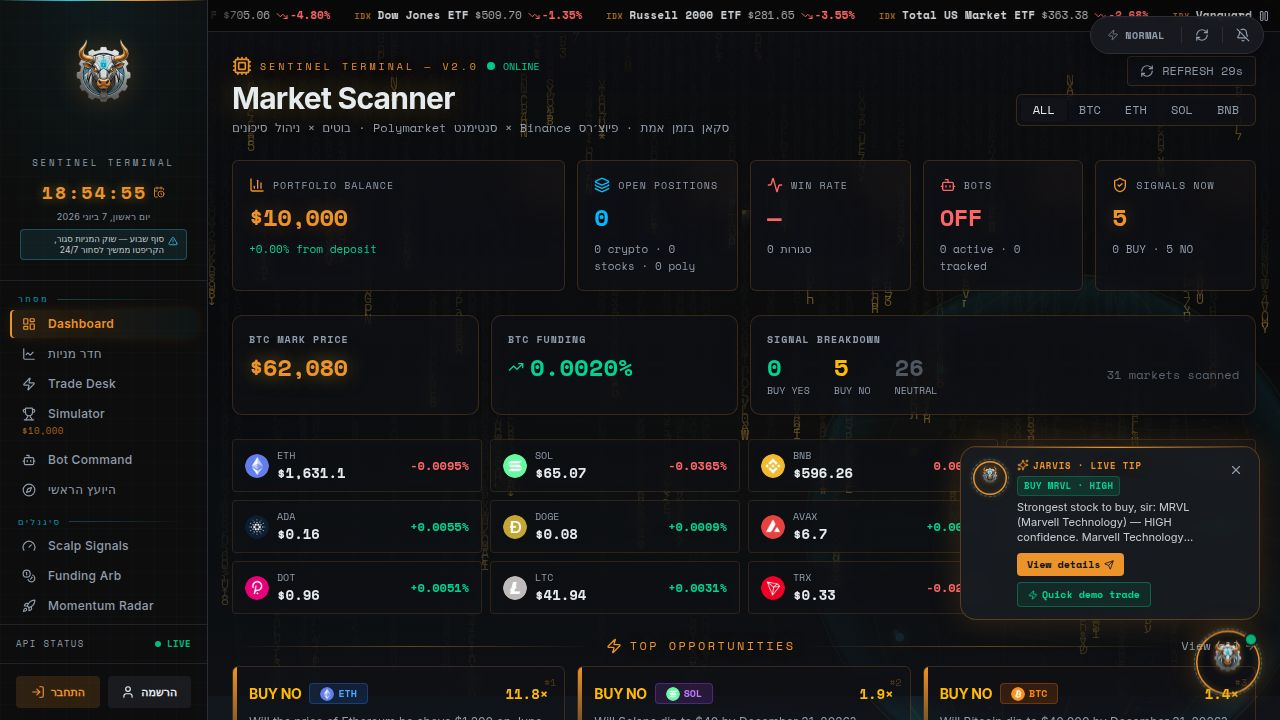
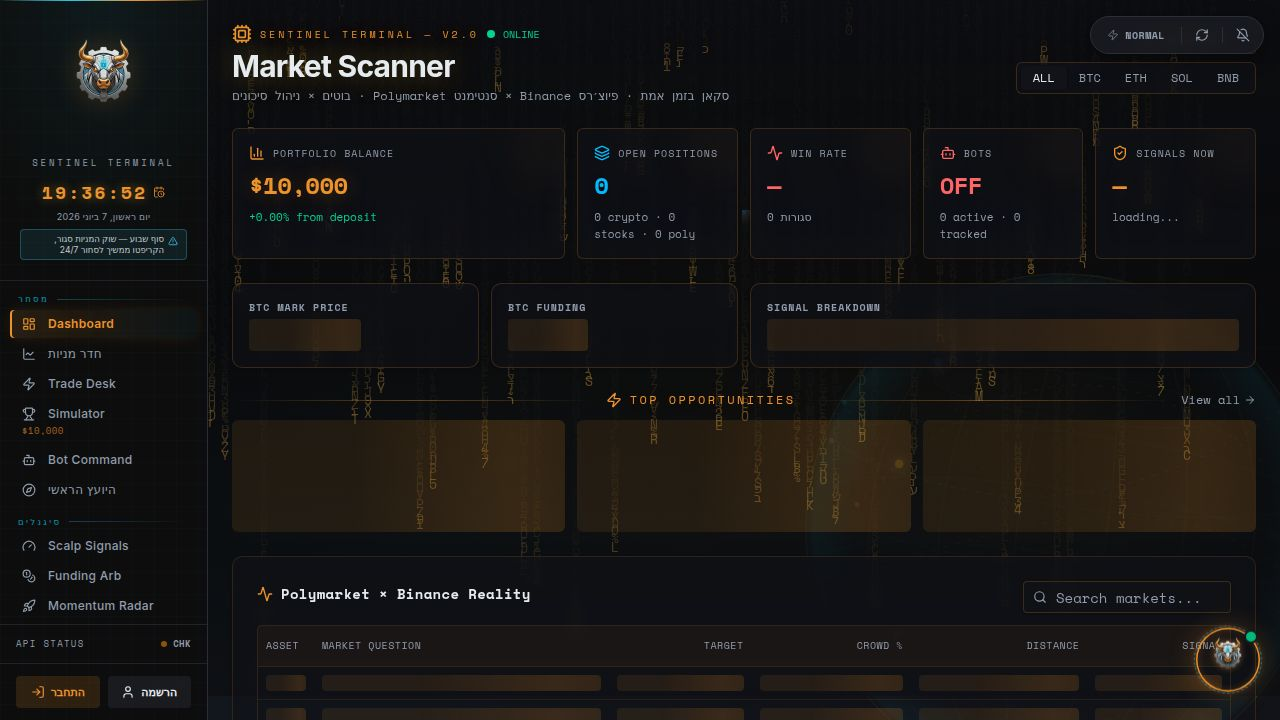
feat: make bot badges on trade rows navigable to /bots page
Task: Let users tap a bot badge to jump to that bot's page

## What changed

### simulator.tsx
- Added `useLocation` from wouter import
- Added `sourceToBotId()` helper: maps trade source strings and types to
  bot element IDs (bot-scalp, bot-momentum, bot-smart, bot-poly,
  bot-dipbuyer, bot-breakout, bot-dca, bot-funding)
- Added `navigateToBotPanel()` helper: stores target bot ID in
  sessionStorage then navigates to /bots
- Converted both source badge `<span>` elements (Binance history panel
  ~line 356 and TradeHistoryPanel ~line 1101) into `<button>` elements
  with onClick that calls navigateToBotPanel; hover style added

### history.tsx
- Added same `sourceToBotId()` and `navigateToBotPanel()` helpers
- Added `useLocation` hook to `ClosedTradeTable` component
- Added a clickable bot source badge beneath each trade description in
  the full history table for auto trades (POLYMARKET and FUNDING types
  get a fallback label even without a source string)

### bots.tsx
- Added a mount-time `useEffect` that reads the target bot ID from
  sessionStorage, scrolls the matching BotCard into view (smooth,
  scroll-mt-24 offsets the sticky header), and briefly adds a gold ring
  highlight (ring-2 ring-primary/70) for 2 seconds then removes it
- No BotCard API changes needed — highlight applied via direct DOM
  class manipulation

## No deviations from task spec
All three files touched as specified. Typecheck passes cleanly.

Replit-Task-Id: e1450c15-92e7-4f16-acbc-8ab641783918

diff --git a/artifacts/crypto-arb/src/pages/history.tsx b/artifacts/crypto-arb/src/pages/history.tsx
@@ -32,6 +32,25 @@ function botName(source: string | undefined): string | null {
   return BOT_SOURCE_LABEL[source] ?? null;
 }
 
+function sourceToBotId(source: string | undefined, type?: string): string | null {
+  if (type === "POLYMARKET") return "bot-poly";
+  if (type === "FUNDING") return "bot-funding";
+  if (!source) return null;
+  if (source.includes("Scalp")) return "bot-scalp";
+  if (source.includes("Momentum")) return "bot-momentum";
+  if (source.includes("Smart-Money")) return "bot-smart";
+  if (source === "Dip Buyer") return "bot-dipbuyer";
+  if (source === "Breakout Hunter") return "bot-breakout";
+  if (source === "Blue-Chip DCA") return "bot-dca";
+  return null;
+}
+
+function navigateToBotPanel(source: string | undefined, type: string | undefined, navigate: (to: string) => void) {
+  const botId = sourceToBotId(source, type);
+  if (botId) sessionStorage.setItem("scrollToBotId", botId);
+  navigate("/bots");
+}
+
 function fmtUsd(n: number, dp = 2): string {
   return n.toLocaleString(undefined, { minimumFractionDigits: dp, maximumFractionDigits: dp });
 }
@@ -842,6 +861,7 @@ function ClosedTradeTable({ trades, onSelect }: { trades: ClosedTrade[]; onSelec
   const [hovered, setHovered] = useState<ClosedTrade | null>(null);
   const [mousePos, setMousePos] = useState({ x: 0, y: 0 });
   const moveRef = useRef<number | null>(null);
+  const [, navigate] = useLocation();
 
   const onMove = useCallback((e: React.MouseEvent) => {
     if (moveRef.current !== null) cancelAnimationFrame(moveRef.current);
@@ -914,6 +934,27 @@ function ClosedTradeTable({ trades, onSelect }: { trades: ClosedTrade[]; onSelec
                       )}
                     </div>
                     <div className="font-mono text-[11px] text-foreground/90 break-words line-clamp-2 mt-0.5" title={first.description}>{first.description}</div>
+                    {(first.source || first.type === "POLYMARKET" || first.type === "FUNDING") && !isGroup && (
+                      <div className="mt-0.5">
+                        {first.source ? (
+                          <button
+                            onClick={(e) => { e.stopPropagation(); navigateToBotPanel(first.source, first.type, navigate); }}
+                            className="font-mono text-[8px] font-bold px-1 py-0.5 rounded bg-amber-400/15 text-amber-400 border border-amber-400/25 hover:bg-amber-400/30 transition-colors cursor-pointer"
+                            title={`עבור לבוט: ${first.source}`}
+                          >
+                            {botName(first.source) ?? first.source}
+                          </button>
+                        ) : (
+                          <button
+                            onClick={(e) => { e.stopPropagation(); navigateToBotPanel(undefined, first.type, navigate); }}
+                            className="font-mono text-[8px] font-bold px-1 py-0.5 rounded bg-amber-400/15 text-amber-400 border border-amber-400/25 hover:bg-amber-400/30 transition-colors cursor-pointer"
+                            title="עבור לבוט"
+                          >
+                            {first.type === "POLYMARKET" ? "Polymarket Bot" : "Funding Arb"}
+                          </button>
+                        )}
+                      </div>
+                    )}
                     {isGroup && (
                       <div className="font-mono text-[9px] text-muted-foreground/60 mt-0.5">
                         {rows.length} חזיוניות באותו הסווג

diff --git a/artifacts/crypto-arb/src/pages/simulator.tsx b/artifacts/crypto-arb/src/pages/simulator.tsx
@@ -1,4 +1,5 @@
 import { useState, useMemo, useEffect, useCallback } from "react";
+import { useLocation } from "wouter";
 import {
   useGetBinanceMulti, getGetBinanceMultiQueryKey,
   useGetAllMarkets, getGetAllMarketsQueryKey,
@@ -43,6 +44,25 @@ function pnlColor(n: number) {
 }
 function pnlBg(n: number) {
   return n > 0 ? "bg-emerald-500/10 border-emerald-500/20" : n < 0 ? "bg-red-500/10 border-red-500/20" : "bg-secondary/30 border-border";
+}
+
+function sourceToBotId(source: string | undefined, type?: string): string | null {
+  if (type === "POLYMARKET") return "bot-poly";
+  if (type === "FUNDING") return "bot-funding";
+  if (!source) return null;
+  if (source.includes("Scalp")) return "bot-scalp";
+  if (source.includes("Momentum")) return "bot-momentum";
+  if (source.includes("Smart-Money")) return "bot-smart";
+  if (source === "Dip Buyer") return "bot-dipbuyer";
+  if (source === "Breakout Hunter") return "bot-breakout";
+  if (source === "Blue-Chip DCA") return "bot-dca";
+  return null;
+}
+
+function navigateToBotPanel(source: string | undefined, type: string | undefined, navigate: (to: string) => void) {
+  const botId = sourceToBotId(source, type);
+  if (botId) sessionStorage.setItem("scrollToBotId", botId);
+  navigate("/bots");
 }
 
 /* ─── Deposit Dialog ─── */
@@ -186,6 +206,7 @@ function PosFilterToggle({ value, onChange, counts }: { value: PosFilter; onChan
 function FuturesPositionsPanel({ binancePrices, posFilter, setPosFilter, onSelectAsset }: { binancePrices: Record<string, number>; posFilter: PosFilter; setPosFilter: (v: PosFilter) => void; onSelectAsset?: (asset: string) => void }) {
   const { binancePositions, closeBinancePosition, tradeHistory } = usePortfolio();
   const [histFilter, setHistFilter] = useState<PosFilter>("ALL");
+  const [, navigate] = useLocation();
   const binanceTrades = tradeHistory.filter(t => t.type === "BINANCE");
   const autoBinancePositions = binancePositions.filter(p => p.auto);
 
@@ -330,9 +351,13 @@ function FuturesPositionsPanel({ binancePrices, posFilter, setPosFilter, onSelec
                 <div key={t.id} className="px-3 py-1.5 flex items-center gap-2">
                   <span className="text-[10px] font-mono text-muted-foreground truncate flex-1">{t.description}</span>
                   {t.source ? (
-                    <span className="text-[8px] font-mono font-bold px-1 py-0.5 rounded bg-amber-400/15 text-amber-400 border border-amber-400/25 shrink-0 max-w-[72px] truncate" title={t.source}>
+                    <button
+                      onClick={(e) => { e.stopPropagation(); navigateToBotPanel(t.source, t.type, navigate); }}
+                      className="text-[8px] font-mono font-bold px-1 py-0.5 rounded bg-amber-400/15 text-amber-400 border border-amber-400/25 shrink-0 max-w-[72px] truncate hover:bg-amber-400/30 transition-colors cursor-pointer"
+                      title={`עבור לבוט: ${t.source}`}
+                    >
                       {t.source}
-                    </span>
+                    </button>
                   ) : t.auto ? null : (
                     <span className="text-[8px] font-mono font-bold px-1 py-0.5 rounded bg-secondary/40 text-muted-foreground border border-border/40 shrink-0">
                       Manual
@@ -1029,6 +1054,7 @@ function StocksTab({ stocks, stockPrices, posFilter, setPosFilter }: { stocks: S
 function TradeHistoryPanel() {
   const { tradeHistory } = usePortfolio();
   const [histFilter, setHistFilter] = useState<PosFilter>("ALL");
+  const [, navigate] = useLocation();
   const nonBinance = tradeHistory.filter(t => t.type !== "BINANCE");
   if (nonBinance.length === 0) return null;
   const botPnl = nonBinance.filter(t => t.auto).reduce((s, t) => s + t.pnl, 0);
@@ -1070,9 +1096,13 @@ function TradeHistoryPanel() {
               <span className="text-muted-foreground truncate font-mono">{t.description}</span>
             </div>
             {t.source ? (
-              <span className="text-[8px] font-mono font-bold px-1 py-0.5 rounded bg-amber-400/15 text-amber-400 border border-amber-400/25 flex-shrink-0 max-w-[72px] truncate" title={t.source}>
+              <button
+                onClick={(e) => { e.stopPropagation(); navigateToBotPanel(t.source, t.type, navigate); }}
+                className="text-[8px] font-mono font-bold px-1 py-0.5 rounded bg-amber-400/15 text-amber-400 border border-amber-400/25 flex-shrink-0 max-w-[72px] truncate hover:bg-amber-400/30 transition-colors cursor-pointer"
+                title={`עבור לבוט: ${t.source}`}
+              >
                 {t.source}
-              </span>
+              </button>
             ) : !t.auto ? (
               <span className="text-[8px] font-mono font-bold px-1 py-0.5 rounded bg-secondary/40 text-muted-foreground border border-border/40 flex-shrink-0">
                 Manual

diff --git a/artifacts/crypto-arb/src/pages/bots.tsx b/artifacts/crypto-arb/src/pages/bots.tsx
@@ -160,6 +160,22 @@ export default function Bots() {
   const { data: stocks } = useGetStocks({ query: { queryKey: getGetStocksQueryKey() } });
   const { data: shortTerm } = useGetShortTermMarkets({ query: { queryKey: getGetShortTermMarketsQueryKey() } });
 
+  // Scroll to and briefly highlight a specific bot card when navigated from a trade badge.
+  useEffect(() => {
+    const botId = sessionStorage.getItem("scrollToBotId");
+    if (!botId) return;
+    sessionStorage.removeItem("scrollToBotId");
+    const timer = setTimeout(() => {
+      const el = document.getElementById(botId);
+      if (el) {
+        el.scrollIntoView({ behavior: "smooth", block: "start" });
+        el.classList.add("ring-2", "ring-primary/70", "ring-offset-2", "ring-offset-background");
+        setTimeout(() => el.classList.remove("ring-2", "ring-primary/70", "ring-offset-2", "ring-offset-background"), 2000);
+      }
+    }, 150);
+    return () => clearTimeout(timer);
+  }, []);
+
   // Live boost countdown — tick once a second only while a boost is running.
   const [now, setNow] = useState(() => Date.now());
   const boostActive = settings.boostUntil > now;